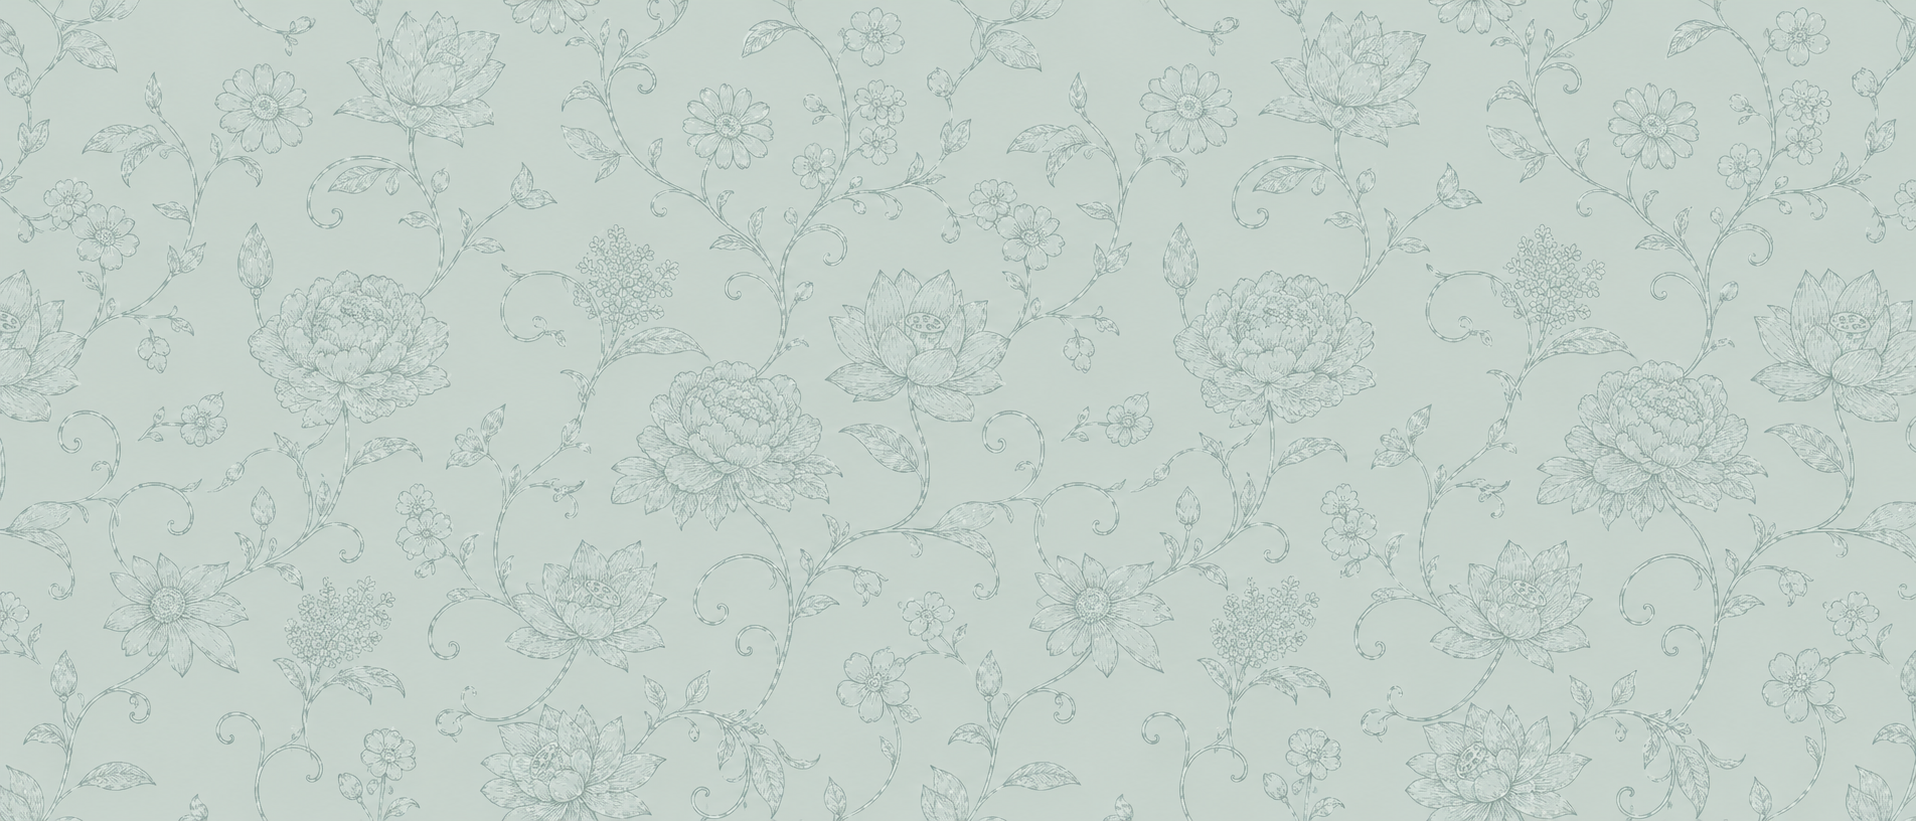
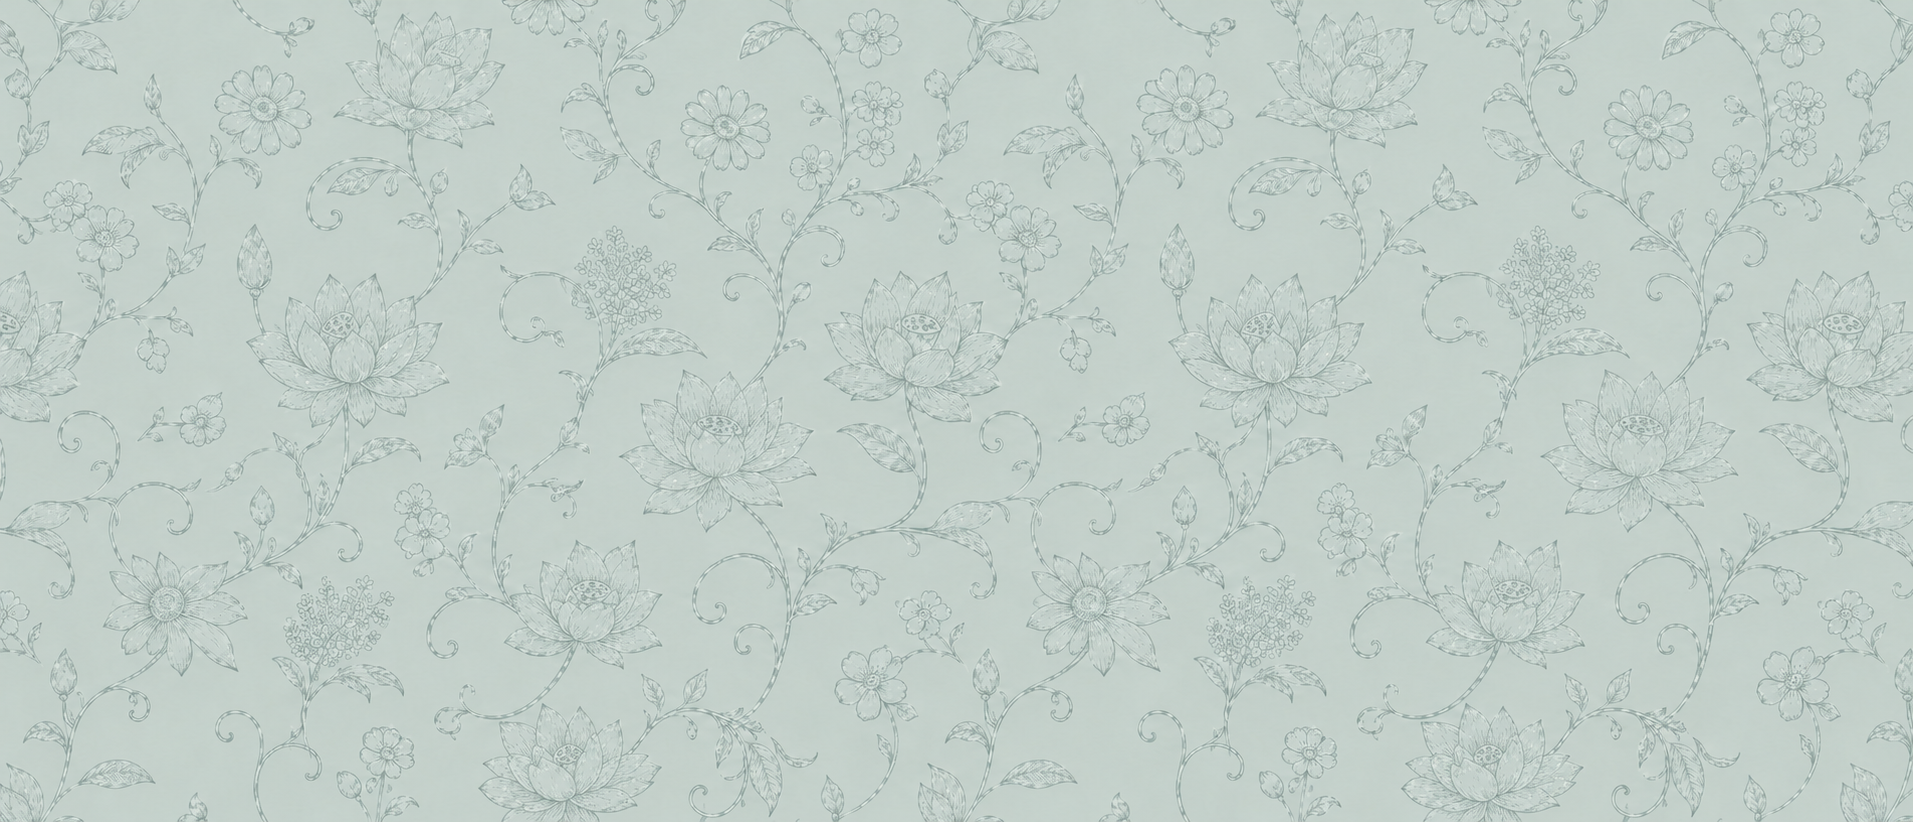
perf(landing): :zap: tune hero media loading
- Load hero video for eligible visitors immediately
- Respect reduced motion, data saver, and slow networks
- Prioritize brand logo loading across public pages
- Remove one B2B gallery image from rotation
- Refresh the about pattern image asset

diff --git a/app/[locale]/(public)/_components/home-hero-video.tsx b/app/[locale]/(public)/_components/home-hero-video.tsx
@@ -1,6 +1,6 @@
 'use client'
 
-import { useEffect, useState } from 'react'
+import { useState, useSyncExternalStore } from 'react'
 
 interface HomeHeroVideoProps {
   videoSrc: string
@@ -14,7 +14,6 @@ interface NetworkInformation {
 const SLOW_CONNECTIONS = new Set(['slow-2g', '2g'])
 
 function shouldSkipVideo() {
-  if (typeof window === 'undefined') return true
   if (window.matchMedia?.('(prefers-reduced-motion: reduce)').matches) return true
   const connection = (navigator as Navigator & { connection?: NetworkInformation }).connection
   if (connection?.saveData) return true
@@ -22,34 +21,17 @@ function shouldSkipVideo() {
   return false
 }
 
-// The video is decorative — it never becomes the LCP element (the SVG poster
-// baked into home-hero.tsx handles that). We wait for the first real user
-// gesture before touching the network for the MP4, so Lighthouse's audit
-// (which never gestures) records 0 bytes for the video.
+const noop = () => () => {}
+
 export default function HomeHeroVideo({ videoSrc }: HomeHeroVideoProps) {
-  const [shouldMount, setShouldMount] = useState(false)
-  const [isPlaying, setIsPlaying] = useState(false)
+  const ready = useSyncExternalStore(
+    noop,
+    () => !shouldSkipVideo(),
+    () => false
+  )
+  const [playing, setPlaying] = useState(false)
 
-  useEffect(() => {
-    if (shouldSkipVideo()) return
-
-    const gestureEvents = ['pointerdown', 'scroll', 'keydown', 'touchstart', 'wheel'] as const
-
-    const activate = () => {
-      setShouldMount(true)
-      gestureEvents.forEach((evt) => window.removeEventListener(evt, activate, true))
-    }
-
-    gestureEvents.forEach((evt) =>
-      window.addEventListener(evt, activate, { capture: true, once: true, passive: true })
-    )
-
-    return () => {
-      gestureEvents.forEach((evt) => window.removeEventListener(evt, activate, true))
-    }
-  }, [])
-
-  if (!shouldMount) return null
+  if (!ready) return null
 
   return (
     <video
@@ -60,10 +42,10 @@ export default function HomeHeroVideo({ videoSrc }: HomeHeroVideoProps) {
       playsInline
       preload='auto'
       disableRemotePlayback
-      onPlaying={() => setIsPlaying(true)}
-      onCanPlay={() => setIsPlaying(true)}
+      onPlaying={() => setPlaying(true)}
+      onCanPlay={() => setPlaying(true)}
       className={`pointer-events-none absolute inset-0 h-full w-full object-cover transition-opacity duration-700 ${
-        isPlaying ? 'opacity-100' : 'opacity-0'
+        playing ? 'opacity-100' : 'opacity-0'
       }`}
     />
   )

diff --git a/app/[locale]/(public)/_components/footer.tsx b/app/[locale]/(public)/_components/footer.tsx
@@ -88,6 +88,7 @@ export default function Footer() {
               alt={t('footer.logoAlt')}
               sizes='(min-width: 1024px) 128px, (min-width: 640px) 112px, 96px'
               quality={80}
+              loading='eager'
               className='h-24 w-auto sm:h-28 lg:h-32'
             />
             <p className='text-base sm:text-lg font-bold'>{t('footer.company')}</p>
@@ -147,11 +148,7 @@ export default function Footer() {
             <h2 className='text-sm sm:text-base font-bold text-primary'>{t('footer.mapHeading')}</h2>
             <div className='overflow-hidden rounded-2xl border-2 border-secondary/80 shadow-md'>
               {googleMapSrc && (
-                <LazyMapEmbed
-                  src={googleMapSrc}
-                  title={t('footer.mapTitle')}
-                  className='h-40 w-full sm:h-48 lg:h-44'
-                />
+                <LazyMapEmbed src={googleMapSrc} title={t('footer.mapTitle')} className='h-40 w-full sm:h-48 lg:h-44' />
               )}
             </div>
             <div className='flex items-center gap-3'>

diff --git a/app/robots.ts b/app/robots.ts
@@ -7,7 +7,19 @@ export default function robots(): MetadataRoute.Robots {
       {
         userAgent: '*',
         allow: '/',
-        disallow: ['/api/', '/sign-in', '/sign-up', '/forgot-password', '/cart', '/verification', '/en/sign-in', '/en/sign-up', '/en/forgot-password', '/en/cart', '/en/verification']
+        disallow: [
+          '/api/',
+          '/sign-in',
+          '/sign-up',
+          '/forgot-password',
+          '/cart',
+          '/verification',
+          '/en/sign-in',
+          '/en/sign-up',
+          '/en/forgot-password',
+          '/en/cart',
+          '/en/verification'
+        ]
       }
     ],
     sitemap: `${SITE_URL}/sitemap.xml`,

diff --git a/app/[locale]/not-found.tsx b/app/[locale]/not-found.tsx
@@ -27,7 +27,7 @@ export default async function NotFoundPage() {
         aria-label='Hoa Theo Mùa'
         className='absolute top-8 left-1/2 -translate-x-1/2 transition-opacity hover:opacity-80'
       >
-        <Image src={logo} alt='Hoa Theo Mùa' width={56} height={56} priority />
+        <Image src={logo} alt='Hoa Theo Mùa' width={56} height={56} priority loading='eager' />
       </Link>
 
       <div className='relative z-10 mx-auto max-w-2xl space-y-6'>

diff --git a/app/[locale]/(public)/b2b/_components/b2b-case-study-section.tsx b/app/[locale]/(public)/b2b/_components/b2b-case-study-section.tsx
@@ -31,8 +31,8 @@ const PHOTO_DIMENSIONS: Record<string, { width: number; height: number }> = {
   '15': { width: 1706, height: 2560 },
   '16': { width: 1920, height: 2560 },
   '17': { width: 1920, height: 2560 },
-  '18': { width: 832, height: 1248 },
-  '20': { width: 2048, height: 1366 }
+  '18': { width: 832, height: 1248 }
+  // '20': { width: 2048, height: 1366 }
 }
 
 const PHOTOS = Object.entries(PHOTO_DIMENSIONS).map(([id, { width, height }]) => ({

diff --git a/app/[locale]/(public)/_components/nav-bar.tsx b/app/[locale]/(public)/_components/nav-bar.tsx
@@ -75,6 +75,7 @@ export default function NavBar() {
           alt={t('header.logoAlt')}
           sizes='(min-width: 1024px) 56px, (min-width: 640px) 48px, 40px'
           quality={80}
+          loading='eager'
           className='h-10 sm:h-12 lg:h-14 w-auto'
         />
       </Link>
